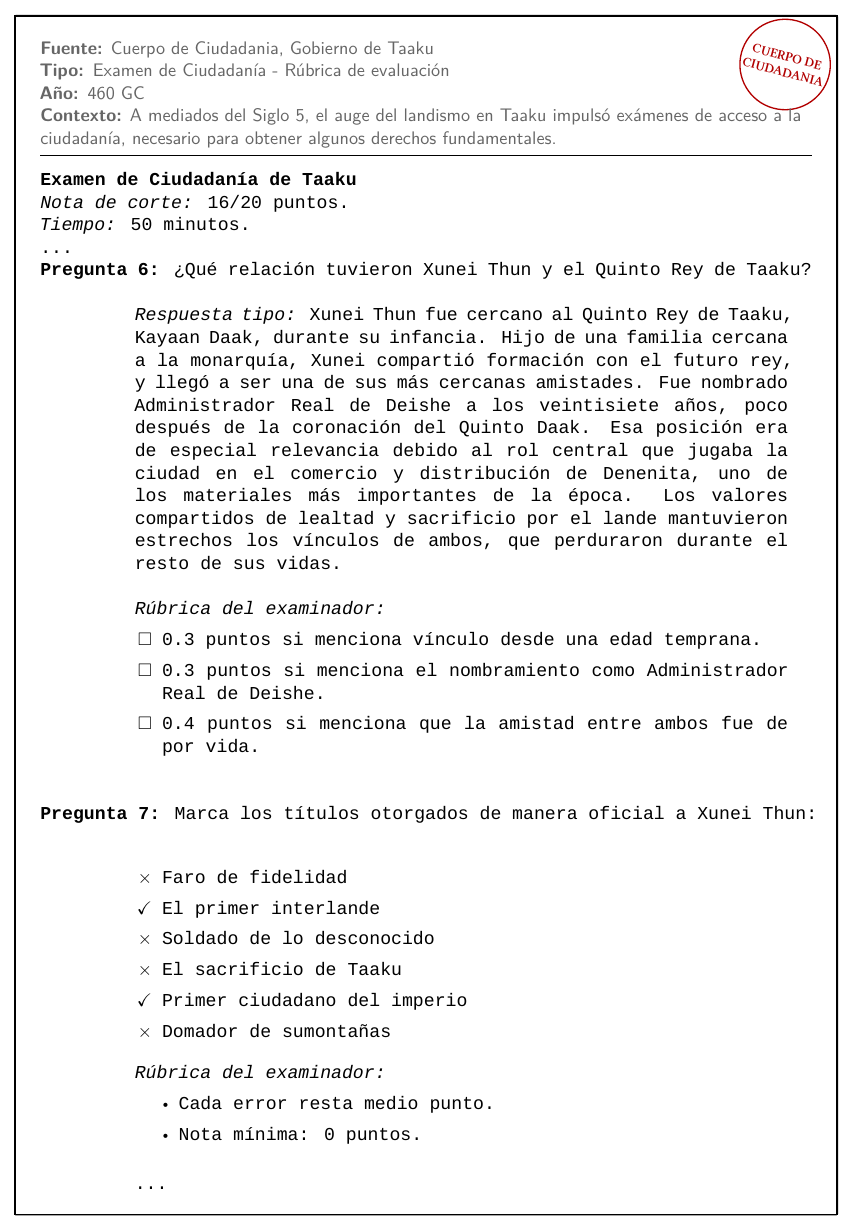
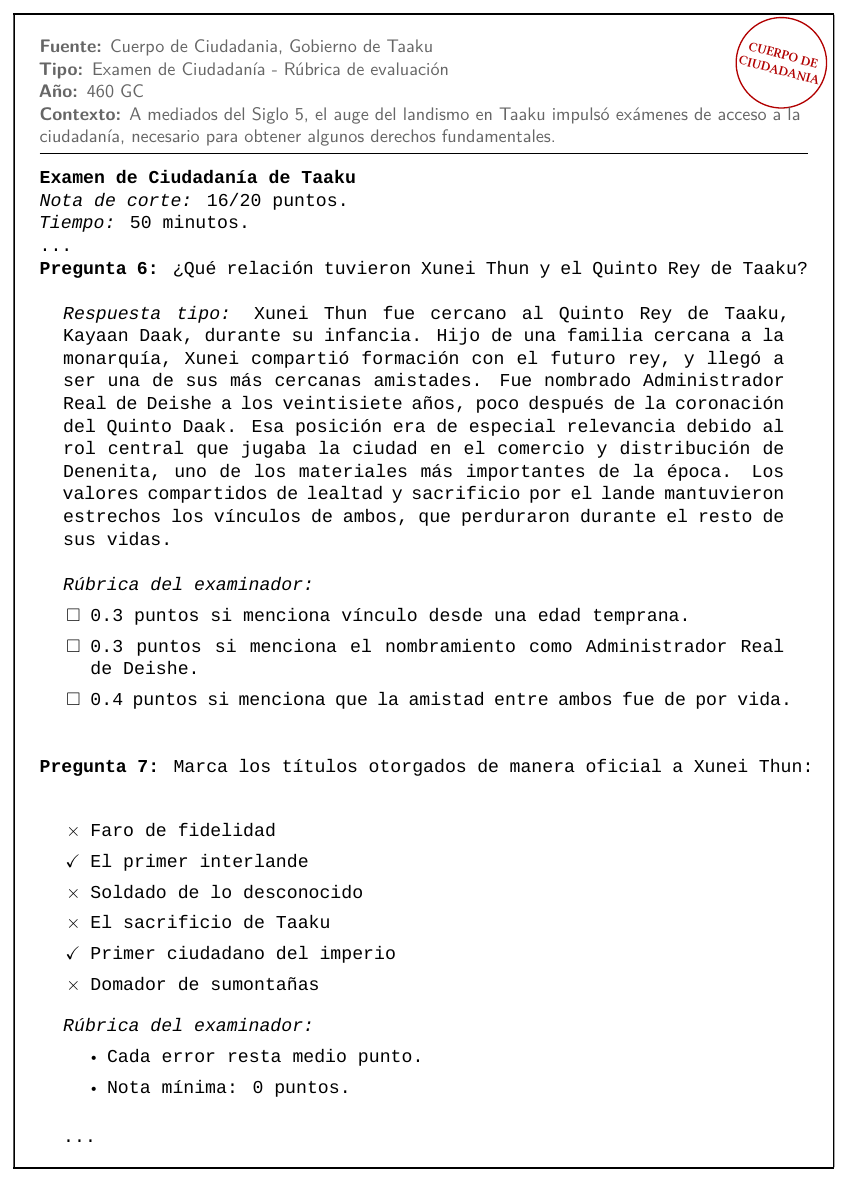
Documentos sin márgenes en lector (d2/d7/d8/d9/d11 re-renderizados sin adjustwidth); select de lugares solo con descubiertos; eras: pre gran conexión, gran conexión-era de los landes, era de la semiesfera

Changed region(s): [[0.0307, 0.0, 1.0, 1.0], [0.0613, 0.7005, 0.5519, 0.9442], [0.0307, 0.6396, 0.9505, 0.6701]]

diff --git a/assets/explore.js b/assets/explore.js
@@ -464,7 +464,16 @@
       if (x2 - x1 < 4) return;
       svgEl('rect', { class: 'era-band' + (i % 2 ? ' alt' : ''), x: x1, y: 0, width: x2 - x1, height: PLOT_H }, svg);
       var t = svgEl('text', { class: 'era-label', x: x1 + 8, y: 18 }, svg);
-      t.textContent = era.name;
+      // si el nombre no cabe en su banda, se parte en dos líneas por el guion
+      if (era.name.indexOf(' - ') > 0 && era.name.length * 6.2 > x2 - x1 - 16) {
+        var parts = era.name.split(' - ');
+        var ts1 = svgEl('tspan', { x: x1 + 8, y: 14 }, t);
+        ts1.textContent = parts[0];
+        var ts2 = svgEl('tspan', { x: x1 + 8, y: 28 }, t);
+        ts2.textContent = parts[1];
+      } else {
+        t.textContent = era.name;
+      }
     });
 
     // banda de rango seleccionado
@@ -1055,6 +1064,11 @@
     if (!dom.placeSelect) return;
     var regions = [], points = {};
     state.places.forEach(function (p) {
+      // solo lugares descubiertos: dentro de una pieza ya revelada
+      var revealed = state.pieces.some(function (piece) {
+        return insidePiece(p.geometry, piece);
+      });
+      if (!revealed) return;
       if (p.geometry.type === 'point') {
         var key = p.parent || '';
         (points[key] = points[key] || []).push(p);
@@ -1310,10 +1324,7 @@
 
   function rebuildState() {
     state.pieces = [];
-    // sembrar con todos los lugares conocidos (index.json): los filtros
-    // pueden referirse a landes que ninguna historia leída ha revelado
     state.places = new Map();
-    (state.index.places || []).forEach(function (p) { state.places.set(p.id, p); });
     state.docs = [];
     state.eras = [];
     prepareData(state.files);
